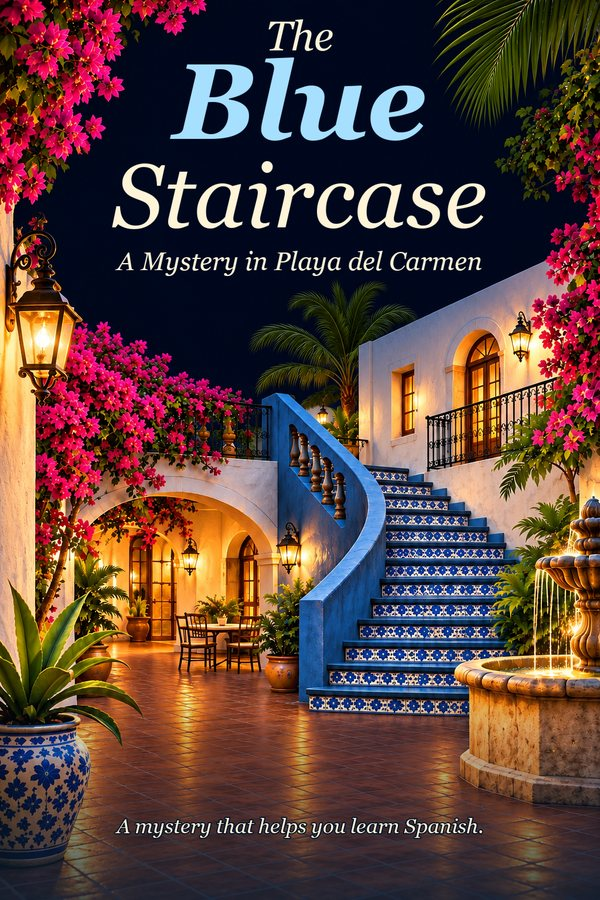
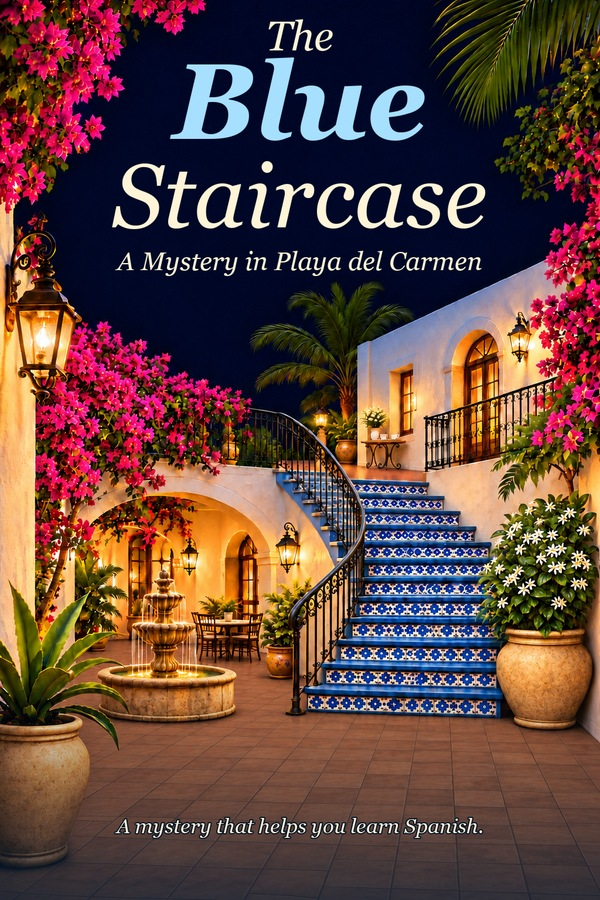
Use the approved terracotta artwork in the companion

diff --git a/docs/BLUE_STAIRCASE_COVER_PRODUCTION.md b/docs/BLUE_STAIRCASE_COVER_PRODUCTION.md
@@ -1,13 +1,17 @@
 # The Blue Staircase — Cover Production & Edition Handoff
 
-Status: **Design prototypes approved as working references only**, not final artwork or permission to publish. Owner for production refinement and maintenance: **Abu**, in collaboration with Nate and the writer. Date: 2026-11-23.
+Status: **Terracotta courtyard artwork approved for future book covers and the companion app** on November 24, 2026. Cover masters and the renderer are maintained in the private development repository.
 
-## Source prototypes
+## Approved cover source
+
+Use the current front master with matte weathered terracotta, blue treads and patterned risers, a black wrought-iron railing, and sandy-tan planters and fountain. Use the clean render for the app and crop the corrected staircase for the app icon and banners. Keep the beach-sunset back artwork for future editions. The private release procedure records how to render an edition-specific plaque from the masters.
+
+## Original prototypes
 Nate supplied **two images in the current ChatGPT conversation**:
 1. **Front prototype**: courtyard at night, blue staircase, patterned blue/white risers, ornate title, flowers and fountain. **Nate prefers the earlier darker nighttime atmosphere** over the most recent version, where the illuminated lanterns and windows imply night but the sky appears too bright. Use a convincingly dark, deep-navy nighttime sky and restrained ambient light, with architectural lanterns and windows providing believable warm pools of light; retain clear visibility of the staircase and tile details. Do not alter the established composition, ornate typography, or other scene elements beyond what is needed for the lighting correction.
 2. **Back prototype**: beach sunset ONLY (no staircase), synopsis and companion app benefits.
 
-**The image files must be attached/uploaded to this repository by Nate or another authorized maintainer before they can be considered available to Abu's GitHub workflow.** Do not recreate from a verbal summary while claiming exact fidelity. Original conversation attachment paths are not portable to GitHub.
+Reference the source-controlled masters for production.
 
 ## Permanent visual identity
 - Exact title: **The Blue Staircase**.
@@ -31,10 +35,10 @@ Nate supplied **two images in the current ChatGPT conversation**:
 - Source-controlled master artwork and reproducible export pipeline for front and back, EPUB cover, companion app, GitHub README/social previews and archival draft editions.
 - Ensure correct aspect ratio, crisp text, safe margins, appropriate image sizes and contrast; no image-generation artifacts in words.
 - **Preserve each released working draft's historical cover and chapter range**; do not retroactively overwrite older editions or mislabel their content.
-- **Current public EPUB is reportedly Chapters 1–2**. The proposed Chapters 1–4 badge must **not** be applied to that EPUB until a matching Chapters 1–4 edition is explicitly authorized, produced and verified. Verify actual file contents and metadata first.
+- Review Draft v3 covers Chapters 1–4. Confirm chapter range and metadata before publishing a new cumulative review edition.
 - Preserve stable GitHub Pages URL and reader local-storage keys, unless separately authorized with a migration strategy.
-- Do not merge the staged companion rebrand PR or change public app assets without authorization. Coordinate EPUB metadata, internal cover, website thumbnail, download labels, back cover and version display.
-- **No manuscript edits to Chapters 1–4; Chapter 5 on hold; manuscript PR #6 and companion rebrand PR remain drafts; no canon selection, merge, EPUB production or publication** without Nate's explicit approval.
+- Coordinate EPUB metadata, internal cover, website thumbnail, download labels, back cover and version display when publishing a new edition.
+- Nate approves manuscript edits, EPUB production and publication separately from artwork changes.
 
 ## Acceptance checks for Abu
 1. Side-by-side visual comparison with Nate's *actual two uploaded prototypes*, not earlier generated variants.

diff --git a/README.md b/README.md
@@ -8,7 +8,7 @@
   <a href="https://natsteff.github.io/the-blue-staircase-companion/"><img alt="Open TBS Companion App" src="https://img.shields.io/badge/Open%20Companion-205275?style=for-the-badge"></a>
 </p>
 
-**WORK IN PROGRESS · Companion v0.5.6 · Review Draft v3 · Chapters 1–4**
+**WORK IN PROGRESS · Companion v0.5.7 · Review Draft v3 · Chapters 1–4**
 
 I started this as a personal project for fun and to help my wife learn Spanish in a fun way based on a wish she had to learn Spanish while reading a mystery. I’m sharing the draft and companion app for anyone curious about the story and the ideas behind it. The preview is free, and I have no plans to market it commercially.
 
